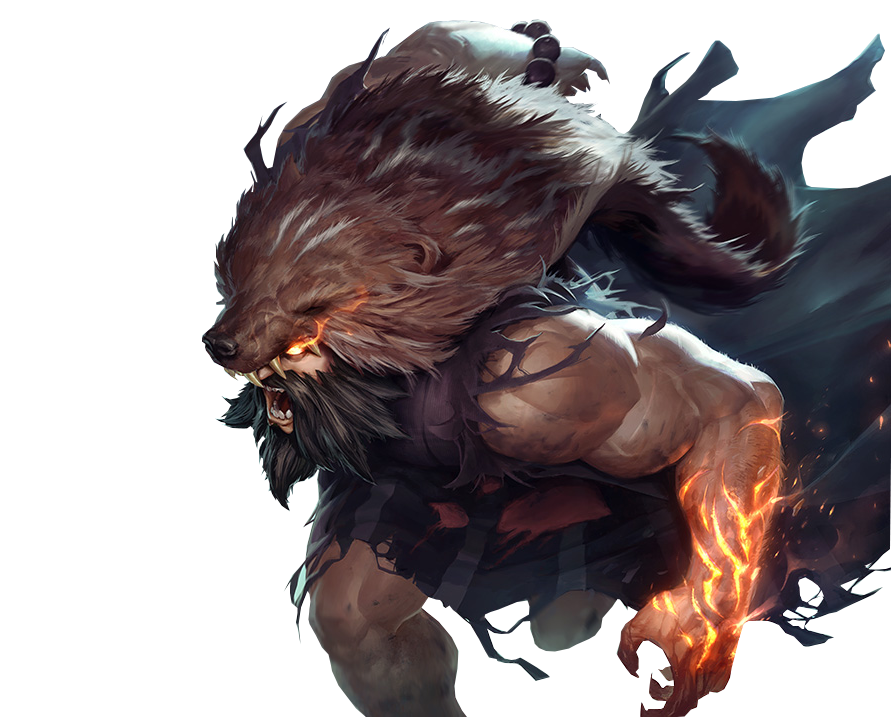
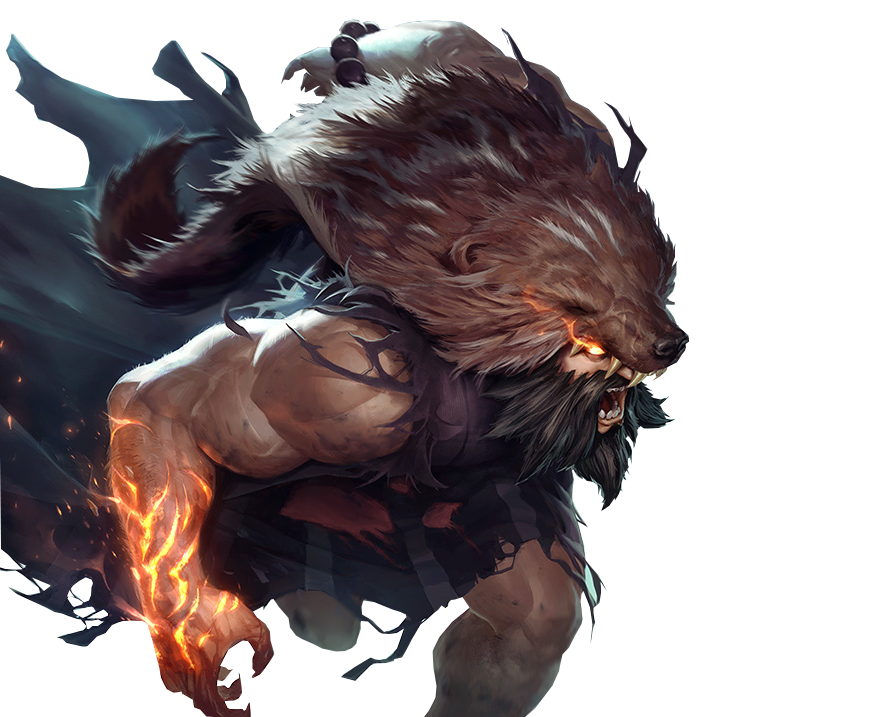
Correcao na exibicao do versus

diff --git a/src/components/Body/index.tsx b/src/components/Body/index.tsx
@@ -1,11 +1,13 @@
 import React from 'react';
 
-import { Container, VersusTitleLeftLetter, VersusTitleRightLetter, BattleDate } from './styles';
+import { Container, VersusTitleLeftLetter, VersusTitleRightLetter, BattleDate, DuelBox, DateBox } from './styles';
 
 import Duelist from '../Duelist';
+import CommentBody from '../CommentBody';
+import Versus from '../Versus';
 
 
-import firstHero from '../../assets/champions/yasuo.png';
+import firstHero from '../../assets/champions/deus.png';
 import secondHero from '../../assets/champions/ryze.png';
 
 let lastWordsLeft = "Eu prefiro morrer do que perder a vida!";
@@ -14,22 +16,27 @@ let lastWordsRight = "Se um dia à velocidade me matar, saiba que morri tentando
 const Body: React.FC = () => {
   return (
     <Container>
+      <DuelBox>
       <Duelist idInfo="info" title="Últimas palavras:" img={firstHero} nickname="courtesy"
        lastWords={lastWordsLeft}/>
-      <VersusTitleLeftLetter>
+      {/* <VersusTitleLeftLetter>
         V
       </VersusTitleLeftLetter>
       <VersusTitleRightLetter>
         S
-      </VersusTitleRightLetter>
+      </VersusTitleRightLetter> */}
+      {/* <DateBox>
       <BattleDate>
         21/09/2020
+        <br/>
+        <p id="hour">21:00</p>
       </BattleDate>
-      <BattleDate>
-        21:00
-      </BattleDate>
-      <Duelist idInfo="info-brother" title="Últimas palavras:" id="player-name" img={secondHero} nickname="passfail3d"
+      </DateBox> */}
+      <Versus/>
+      <Duelist idBanner="brother" idInfo="info-brother" title="Últimas palavras:" id="player-name" img={secondHero} nickname="passfail3d"
       lastWords={lastWordsRight}/>
+      </DuelBox>
+      <CommentBody/>
     </Container>
   );
 }

diff --git a/src/components/Body/styles.ts b/src/components/Body/styles.ts
@@ -4,17 +4,32 @@ export const Container = styled.div`
   background: black;
 
   height: 100%;
+  width: 100vw;
+`;
+
+export const DuelBox = styled.div`
+  height: 100%;
   width: 100%;
 
   display: flex;
-  justify-content: center;
+
+  #brother {
+    justify-content: flex-start;
+  }
+`;
+
+export const DateBox = styled.div`
+    background: var(--main-color);
+    
+    width: 30vw;
+    height: 30vw;
 `;
 
 export const VersusTitleRightLetter = styled.h1`
-  position: fixed;
+  position: relative;
   align-self: center;
 
-  margin-left: 20px;
+  margin-right: -5vh;
 
   z-index: 6;
 
@@ -45,15 +60,15 @@ export const VersusTitleRightLetter = styled.h1`
   @media (max-width: 500px) {
     font-size: 4vh;
 
-    margin-left: 10px;
+    margin-right: -2vh;
   }
 `;
 
 export const VersusTitleLeftLetter = styled.h1`
-  position: fixed;
+  position: relative;
   align-self: center;
 
-  margin-left: -20px;
+  margin-left: -5vh;
 
   z-index: 6;
 
@@ -81,18 +96,18 @@ export const VersusTitleLeftLetter = styled.h1`
   @media (max-width: 500px) {
     font-size: 4vh;
 
-    margin-left: -10px;
+    margin-left: -2vh;
   }
 `;
 
 export const BattleDate = styled.h1`
-  position: fixed;
+  position: relative;
 
   align-self: center;
 
-  margin-top: 50px;
+  margin-top: 120px;
+  margin-left: -5vh;
 
-  z-index: 6;
 
   background: transparent;
 
@@ -100,8 +115,8 @@ export const BattleDate = styled.h1`
 
   animation: ledQuebradoLeft 5s linear infinite;
 
-  + h1 {
-    margin-top: 70px;
+  p#hour {
+    text-align: center;
   }
 
   @keyframes ledQuebradoLeft {

diff --git a/src/components/Duelist/styles.ts b/src/components/Duelist/styles.ts
@@ -1,12 +1,14 @@
 import styled from 'styled-components';
 
 export const Container = styled.div`
-  height: 80vh;
+  height: 90vh;
   width: 100%;
 
-  background: var(--almost-black);
+  background: rgb(24,24,24);
+  background: linear-gradient(180deg, rgba(24,24,24,1) 0%, rgba(24,24,24,1) 75%, rgba(0,0,0,1) 100%);
 
-  justify-content: center;
+  justify-content: flex-end;
+
   align-items: center;
 
   display: flex;
@@ -20,13 +22,9 @@ export const Banner = styled.div`
   width: 30vw;
   height: 30vw;
 
-  margin-top: 45px;
-
   background: var(--main-color);
 
-  position: fixed;
-
-  /* transform: skew(10deg); */
+  /* transform: skew(10de); */
 
   img {
     transition: 1s;
@@ -34,7 +32,6 @@ export const Banner = styled.div`
     width: 100%;
     object-fit: cover;
     filter: grayscale(1);
-    /* transform: skew(-10deg); */
   }
 
   div#player-name {
@@ -75,13 +72,14 @@ export const Banner = styled.div`
 export const PlayerName = styled.div`
   width: 15vw;
   height: 2.5vw;
-  position: fixed;
 
   background: #ff9000;
 
+  position: relative;
+
   text-align-last: center;
 
-  margin-top: -3vw;
+  margin-top: -1vw;
   margin-left: 2vw;
 
   h1 {
@@ -106,9 +104,10 @@ export const PlayerName = styled.div`
 export const InfoPlayer = styled.div`
   width: 0px;
   height: 21vw;
-  position: fixed;
 
   transition: 1s;
+
+  position: relative;
 
   background: #ff9000;
 

diff --git a/src/components/Versus/styles.ts b/src/components/Versus/styles.ts
@@ -1,0 +1,35 @@
+import styled from 'styled-components';
+
+export const Container = styled.div`
+  height: 90vh;
+  width: 20%;
+
+  background: rgb(24, 24, 24);
+  background: linear-gradient(
+    180deg,
+    rgba(24, 24, 24, 1) 0%,
+    rgba(24, 24, 24, 1) 75%,
+    rgba(0, 0, 0, 1) 100%
+  );
+
+  justify-content: center;
+  align-items: center;
+
+  display: flex;
+
+  @media (max-width: 800px) {
+    width: 50%;
+  }
+`;
+
+export const Banner = styled.div`
+  width: 40vw;
+  height: 30vw;
+
+  background: var(--main-color);
+
+  @media (max-width: 500px) {
+    width: 20vw;
+    height: 50vw;
+  }
+`;

diff --git a/src/components/Duelist/index.tsx b/src/components/Duelist/index.tsx
@@ -10,11 +10,12 @@ interface DuelistProps {
   idInfo?: string;
   title?: string;
   lastWords?: string;
+  idBanner?: string;
 }
 
 const Duelist: React.FC<DuelistProps> = (props) => {
   return (
-    <Container>
+    <Container id={props.idBanner}>
       <Banner>
         <img src={props.img} alt=""/>
       <InfoPlayer id={props.idInfo}>

diff --git a/src/styles/GlobalStyles.ts b/src/styles/GlobalStyles.ts
@@ -12,11 +12,16 @@ export default createGlobalStyle`
     width: 100%;
     font-size: 15px;
     font-family: Helvetica, Arial;
+    overflow-x: hidden;
   }
 
   html {
     background: var(--main-color);
   }
+  ::-webkit-scrollbar {
+    width: 0px;
+    background: transparent; /* make scrollbar transparent */
+}
 
 
   :root {

diff --git a/src/components/Versus/index.tsx b/src/components/Versus/index.tsx
@@ -1,0 +1,15 @@
+import React from 'react';
+
+import { Container, Banner } from './styles';
+
+const Versus: React.FC = () => {
+  return (
+    <Container>
+      <Banner>
+        
+      </Banner>
+    </Container>
+  );
+}
+
+export default Versus;

diff --git a/src/components/CommentBody/index.tsx b/src/components/CommentBody/index.tsx
@@ -1,0 +1,13 @@
+import React from 'react';
+
+import { Container } from './styles';
+
+const CommentBody: React.FC = () => {
+  return (
+    <Container>
+      
+    </Container>
+  );
+}
+
+export default CommentBody;

diff --git a/src/components/CommentBody/styles.ts b/src/components/CommentBody/styles.ts
@@ -1,0 +1,8 @@
+import styled from 'styled-components';
+
+export const Container = styled.div`
+  height: 90vh;
+  width: 100%;
+
+  background: red;
+`;
